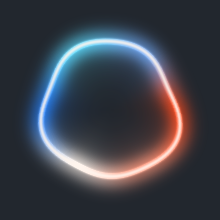
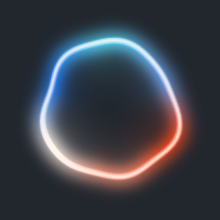
feat: spin the orb, and keep it circular while silent
- The outline now orbits (harmonics ride a spin term), and the colours drift
  round at a different rate, so the ring reads as rotating.
- Wobble is driven by the raw audio envelope instead of the display level, so
  silence gives a genuinely perfect circle. Size and brightness still follow
  level = max(voice, idle breath), so a quiet orb stays alive.
- More turbulence while talking: amplitude grows superlinearly with voice, a
  7th harmonic fades in with it, and the phases churn faster when loud.
  Harmonic amplitudes are normalized -- unnormalized they occasionally align
  and the ring becomes a starfish (calibrated over several preview passes).
- voice decays slower than it rises, so the outline does not snap flat
  between syllables.

Changed region(s): [[0.1364, 0.1636, 0.8727, 0.8455]]

diff --git a/speak.cpp b/speak.cpp
@@ -176,18 +176,36 @@ inline uint32_t Pack(const Rgb& c, float a) {
            (ch(c.r) << 16) | (ch(c.g) << 8) | ch(c.b);
 }
 
-// "aurora": a luminous, slightly irregular ring. The rim is a thin white-hot
-// line riding on a wide coloured glow, the radius wobbles organically, and the
-// colours rotate around the circle. Loudness drives size, wobble and brightness.
-void ComposeAurora(uint32_t* pixels, int S, float level, float fade, float time) {
+// "aurora": a luminous ring. The rim is a thin white-hot line riding on a wide
+// coloured glow, and the whole thing spins slowly.
+//
+// Two separate drives: `voice` is the actual audio envelope and is the only thing
+// that distorts the outline — silence means a perfect circle. `level` is voice or
+// the idle breath, whichever is larger, and drives size and brightness so the orb
+// still looks alive between words.
+void ComposeAurora(uint32_t* pixels, int S, float level, float voice, float fade,
+                   float time) {
     g_geom.Ensure(S);
 
     const float R0         = S * 0.29f * (1.f + 0.09f * level);
-    const float wobble     = (0.045f + 0.05f * level) * R0;
-    const float rotation   = time * 0.28f;
+    // Grows superlinearly with the voice: barely rippling when quiet, properly
+    // turbulent when loud, and exactly 0 — a true circle — in silence.
+    const float wobble     = (0.085f + 0.13f * voice) * voice * R0;
+    const float churn      = time * (1.f + 1.1f * voice);   // faster when loud
+    const float spin       = time * 0.55f;           // the outline orbits
+    const float rotation   = time * 0.33f;           // the colours drift round
     const float rim_sigma  = 1.7f + 1.0f * level;    // the hot line itself
     const float glow_sigma = 8.5f + 7.0f * level;    // coloured halo either side
     const float gain       = 0.72f + 0.45f * level;
+
+    // Out-of-phase harmonics: circular enough to read as a ring, irregular enough
+    // not to look machine-drawn. The high ones are scaled by the voice, so loud
+    // passages get sharp kinks where quiet ones only get broad lobes. Amplitudes
+    // are normalized, otherwise they occasionally align and the ring turns into a
+    // star instead of a wobbling circle.
+    const float h1 = 1.00f, h2 = 0.62f, h3 = 0.45f;
+    const float h4 = 0.60f * voice, h5 = 0.f;   // 11θ dropped: reads as a starfish
+    const float norm = 1.f / (h1 + h2 + h3 + h4 + h5);
 
     static std::vector<float> radius;
     static std::vector<Rgb>   colour;
@@ -195,11 +213,13 @@ void ComposeAurora(uint32_t* pixels, int S, float level, float fade, float time)
     colour.resize(OrbGeometry::kAngles);
     for (int a = 0; a < OrbGeometry::kAngles; ++a) {
         const float th = 2 * kPi * a / OrbGeometry::kAngles;
-        // Three out-of-phase harmonics: circular enough to read as a ring,
-        // irregular enough not to look machine-drawn.
-        radius[a] = R0 + wobble * 0.6f * (std::sin(3 * th + 1.10f * time) +
-                                          0.62f * std::sin(5 * th - 0.80f * time) +
-                                          0.45f * std::sin(2 * th + 0.47f * time));
+        const float ph = th - spin;   // harmonics ride the spin, so bumps travel
+        radius[a] = R0 + wobble * norm *
+                             (h1 * std::sin(3 * ph + 1.10f * churn) +
+                              h2 * std::sin(5 * ph - 0.80f * churn) +
+                              h3 * std::sin(2 * ph + 0.47f * churn) +
+                              h4 * std::sin(7 * ph + 1.90f * churn) +
+                              h5 * std::sin(11 * ph - 2.40f * churn));
         colour[a] = RimColour(std::fmod((th - rotation) / (2 * kPi) + 2.f, 1.f));
     }
 
@@ -250,9 +270,9 @@ void ComposeDot(uint32_t* pixels, int S, float level, float fade) {
     }
 }
 
-void ComposeOrb(uint32_t* pixels, float level, float fade, float time) {
+void ComposeOrb(uint32_t* pixels, float level, float voice, float fade, float time) {
     if (g_orb_style == OrbStyle::Aurora) {
-        ComposeAurora(pixels, g_orb_size, level, fade, time);
+        ComposeAurora(pixels, g_orb_size, level, voice, fade, time);
     } else {
         ComposeDot(pixels, g_orb_size, level, fade);
     }
@@ -304,7 +324,7 @@ void OrbThread() {
 
     ShowWindow(hwnd, SW_SHOWNOACTIVATE);
 
-    float level = 0.f, fade = 0.f;
+    float voice = 0.f, level = 0.f, fade = 0.f;
     bool  closing = false;
     for (int frame = 0;; ++frame) {
         MSG msg;
@@ -320,16 +340,21 @@ void OrbThread() {
             std::lock_guard<std::mutex> lock(g_env_mtx);
             if (idx < g_env.size()) target = g_env[idx];
         }
-        // Keep it alive between words with a slow breath.
+        // Voice: the audio envelope alone, so silence really is silence and the
+        // outline settles into a perfect circle. Decays a little slower than it
+        // rises, otherwise the ring snaps flat between syllables.
+        const float voice_target = Clamp01(target * 1.6f);
+        voice += (voice_target - voice) * (voice_target > voice ? 0.35f : 0.12f);
+
+        // Level: keep it alive between words with a slow breath.
         const float breath = 0.10f + 0.06f * std::sin(frame * 0.09f);
-        target = std::max(Clamp01(target * 1.6f), breath);
-        level += (target - level) * 0.35f;
+        level += (std::max(voice, breath) - level) * 0.35f;
 
         if (g_audio_done.load()) closing = true;
         fade += ((closing ? 0.f : 1.f) - fade) * (closing ? 0.12f : 0.22f);
         if (closing && fade < 0.01f) break;
 
-        ComposeOrb(pixels, level, fade, frame / 60.f);
+        ComposeOrb(pixels, level, voice, fade, frame / 60.f);
         PushOrb(hwnd, mem_dc);
         Sleep(16);
     }
@@ -787,9 +812,9 @@ void WriteWav(const std::string& path, const std::vector<float>& samples) {
 
 // Renders a single orb frame to a 32-bit BMP, flattened over a dark backdrop.
 // Used to eyeball/regression-check the visuals without a screen recorder.
-void DumpOrbFrame(const std::string& path, float level, float time) {
+void DumpOrbFrame(const std::string& path, float level, float voice, float time) {
     std::vector<uint32_t> px(static_cast<size_t>(g_orb_size) * g_orb_size);
-    ComposeOrb(px.data(), level, 1.0f, time);
+    ComposeOrb(px.data(), level, voice, 1.0f, time);
 
     const uint32_t data_bytes = static_cast<uint32_t>(px.size() * 4);
     BITMAPFILEHEADER fh{};
@@ -1094,16 +1119,19 @@ int main() {
     LocalFree(wargv);
 
     if (!opt.dump_orb.empty()) {
-        DumpOrbFrame(opt.dump_orb, 0.65f, 0.f);
+        DumpOrbFrame(opt.dump_orb, 0.65f, 0.65f, 0.f);
         return 0;
     }
     if (!opt.orb_preview.empty()) {
         // A strip across time and loudness, to review the look without a capture.
+        // Frame 0 is silence, so the "perfect circle when idle" case is visible.
         constexpr int kFrames = 6;
+        constexpr float kVoices[kFrames] = {0.f, 0.25f, 0.6f, 1.f, 0.55f, 0.f};
         for (int i = 0; i < kFrames; ++i) {
             const float t = i * 0.7f;
-            const float l = 0.15f + 0.85f * std::fabs(std::sin(i * 0.9f));
-            DumpOrbFrame(opt.orb_preview + std::to_string(i) + ".bmp", l, t);
+            const float v = kVoices[i];
+            DumpOrbFrame(opt.orb_preview + std::to_string(i) + ".bmp",
+                         std::max(v, 0.13f), v, t);
         }
         std::printf("wrote %d frames to %s0..%d.bmp\n", kFrames,
                     opt.orb_preview.c_str(), kFrames - 1);

diff --git a/README.md b/README.md
@@ -4,8 +4,9 @@ A single, self-contained Windows binary that speaks text out loud and shows a
 glowing orb on screen while it talks.
 
 <p align="center">
-  <img src="docs/orb-strip.png" width="640" alt="the orb, wobbling and pulsing with the voice">
+  <img src="docs/orb-strip.png" width="640" alt="the orb: a circle in silence, churning while speaking, circle again">
 </p>
+<p align="center"><em>silent → speaking → loud → silent</em></p>
 
 No Python. No server to start. No `ffplay` to pipe into. One `speak.exe` (plus
 `onnxruntime.dll`) that loads the [Pocket TTS](https://github.com/kyutai-labs/pocket-tts)
@@ -251,7 +252,9 @@ premultiplied-BGRA buffer and pushed to the layered window at ~60 fps. The
 default `aurora` style is a luminous ring —
 
 ```
-per angle θ:  R(θ) = R₀ + wobble·(sin(3θ + 1.1t) + 0.62·sin(5θ − 0.8t) + 0.45·sin(2θ + 0.47t))
+φ = θ − spin                                       ← the whole outline orbits
+per angle θ:  R(θ) = R₀ + wobble·norm·( sin(3φ + 1.1c) + 0.62·sin(5φ − 0.8c)
+                                      + 0.45·sin(2φ + 0.47c) + 0.6·voice·sin(7φ + 1.9c) )
               colour(θ) = ember → white → azure → cyan, rotating with t
 per pixel:    dr   = distance − R(θ)
               rim  = gauss(|dr| / 1.7)      ← thin white-hot line
@@ -259,10 +262,23 @@ per pixel:    dr   = distance − R(θ)
               bleed= gauss(−dr / 0.5R)      ← light leaking inward (dr < 0 only)
 ```
 
-Loudness drives radius, wobble amplitude and brightness; three out-of-phase
-harmonics keep the outline from looking machine-drawn. Per-pixel polar
-coordinates and the Gaussian falloff are precomputed into lookup tables, so a
-frame is table reads and a few multiplies — cheap enough to ignore.
+Two independent drives, which is what makes it read as *listening* rather than
+merely animated:
+
+- **`voice`** is the raw audio envelope and the only thing that distorts the
+  outline. `wobble = (0.085 + 0.13·voice)·voice·R₀`, so it grows superlinearly
+  while talking and is exactly **zero in silence — a true circle**. The 7φ
+  harmonic is scaled by `voice` too, so loud passages get sharp kinks where quiet
+  ones only get broad lobes, and `c` (churn) runs the phases faster when loud.
+  Amplitudes are normalized, otherwise the harmonics occasionally align and the
+  ring turns into a starfish.
+- **`level`** is `voice` or a slow idle breath, whichever is larger, and drives
+  size and brightness — so a quiet orb still looks alive.
+
+`voice` also decays slower than it rises (0.12 vs 0.35), otherwise the ring snaps
+flat between syllables. Per-pixel polar coordinates and the Gaussian falloff are
+precomputed into lookup tables, so a frame is table reads and a few multiplies —
+cheap enough to ignore.
 
 `--orb-preview <prefix>` writes a strip of frames across time and loudness, which
 is how the image at the top of this README was made. Handy because the overlay is
